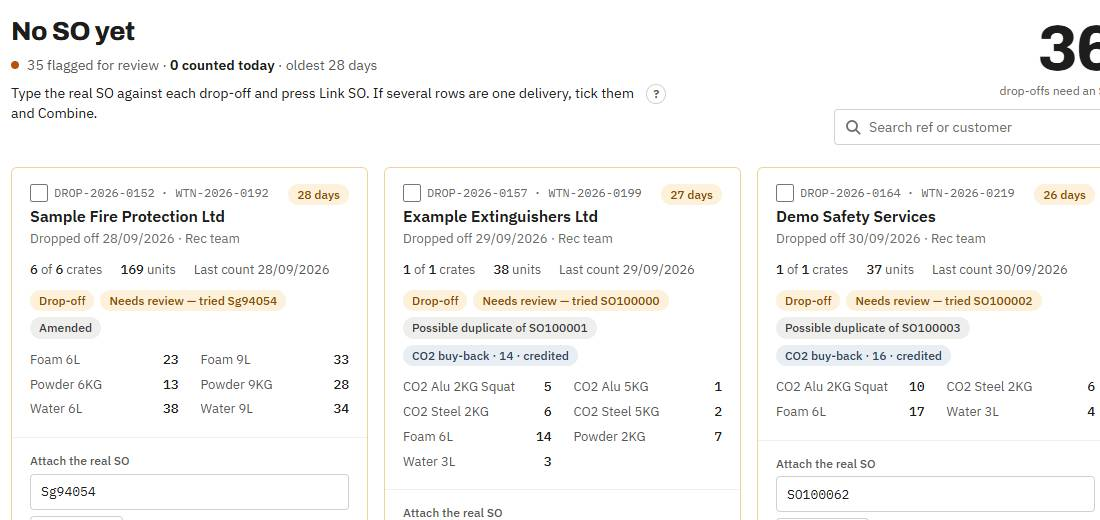
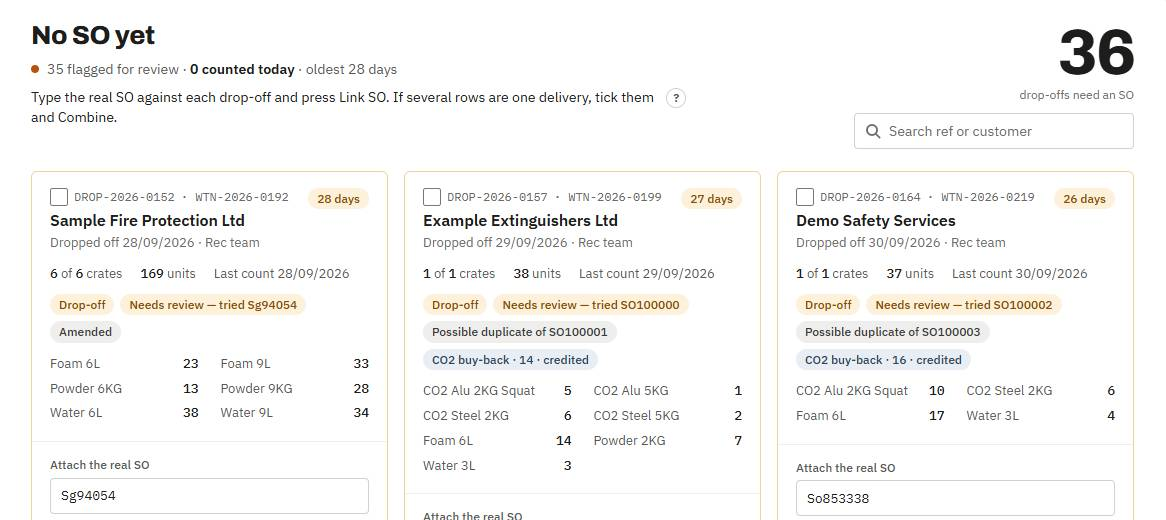
Guide images, mobile table fixes, compact photo links, ignore .taste-skill

diff --git a/public/guide.html b/public/guide.html
@@ -188,7 +188,7 @@ dl.faq dd{margin-top:4px;color:var(--ink)}
 <li><b>WTN sent</b>With the customer, waiting for NetSuite. <i>Moves on when you enter the number and Mark processed.</i></li>
 <li><b>Processed on NetSuite</b>Done. The NetSuite number is on record. <i>End of the line.</i></li>
 </ol>
-<figure><img src="guide/g-stages.jpg" width="1100" height="520" alt="The dashboard sidebar listing the five stages with their counts, beside the Counted stage with its Today line and what to do" loading="lazy"><figcaption>Each stage names what to do and has a small ? that opens its section here.</figcaption></figure>
+<figure><img src="guide/g-stages.jpg" width="1166" height="430" alt="The dashboard sidebar listing the five stages with their counts, beside the Counted stage with its Today line and what to do" loading="lazy"><figcaption>Each stage names what to do and has a small ? that opens its section here.</figcaption></figure>
 
 <h3 id="stage-awaiting">Awaiting count</h3>
 <p>Nothing to do here until the rec team count the crates on the tablet. Close short only when the customer says fewer crates are coming. It issues the WTN for what was actually counted and cannot be undone.</p>
@@ -215,7 +215,7 @@ dl.faq dd{margin-top:4px;color:var(--ink)}
 <li><b>Awaiting count</b><span>A glance. Crates counted today are in the Today line. Close short only when a customer has told you fewer are coming.</span></li>
 <li><b>Month-end, or when a Chubb pack is due</b><span>Process the monthly account (section 5), then Reports for the counted vs billed check.</span></li>
 </ul>
-<figure><img src="guide/g-routine.jpg" width="700" height="520" alt="The sidebar with its counts and an amber flag on Monthly accounts" loading="lazy"><figcaption>Counts show what is waiting. The amber flag on Monthly accounts means visits need confirming.</figcaption></figure>
+<figure style="max-width:260px"><img src="guide/g-routine.jpg" width="250" height="430" alt="The sidebar with its counts and an amber flag on Monthly accounts" loading="lazy"><figcaption>Counts show what is waiting. The amber flag on Monthly accounts means visits need confirming.</figcaption></figure>
 </section>
 
 <section id="tablet">
@@ -230,7 +230,7 @@ dl.faq dd{margin-top:4px;color:var(--ink)}
 <h3>Picking CNI0222 from the list rather than typing it</h3>
 <p>On a drop-off, start typing <code>CNI0222</code> or <b>Chubb</b>. A list of monthly accounts appears under the box. <b>Tap the account in the list.</b> A name picked from the list is trusted, so the visit joins the Chubb roll-up with no further work.</p>
 <div class="note">If the name is typed and not picked, even when it is exactly right, the visit still reaches the dashboard, but Rec Admin has to Confirm it by hand. Picking from the list saves that step.</div>
-<figure class="pair"><div><img src="guide/g-tablet-1.jpg" width="390" height="700" alt="The tablet find screen with the Take Photo button and the drop-off button" loading="lazy"></div><div><img src="guide/g-tablet-2.jpg" width="390" height="700" alt="The drop-off form with Chubb typed and the account offered in a list" loading="lazy"></div><figcaption>Left: photo first. Right: type Chubb, then tap the account in the list.</figcaption></figure>
+<figure class="pair"><div><img src="guide/g-tablet-1.jpg" width="390" height="980" alt="The tablet find screen with the Take Photo button and the drop-off button" loading="lazy"></div><div><img src="guide/g-tablet-2.jpg" width="390" height="980" alt="The drop-off form with Chubb typed and the account offered in a list" loading="lazy"></div><figcaption>Left: photo first. Right: type Chubb, then tap the account in the list.</figcaption></figure>
 <h3>Drop-off or SO?</h3>
 <ul>
 <li><b>SO:</b> NetSuite raised the order and the paperwork has its number. Type the number. The order is already on the dashboard under Awaiting count.</li>
@@ -249,7 +249,7 @@ dl.faq dd{margin-top:4px;color:var(--ink)}
 <li>Press <span class="btnlike dark">Link SO</span> (or Enter). The order leaves this stage.</li>
 </ol>
 <p>If NetSuite already created an empty order with that SO, the two are merged and the counts are kept. If you attach the wrong SO, press <b>Wrong SO? Undo</b> on the card and it goes back to its DROP number with its counts intact.</p>
-<figure><img src="guide/g-noso.jpg" width="1100" height="520" alt="Two No SO yet cards, each with a field for the real SO and a Link SO button" loading="lazy"><figcaption>Sample names. Type the SO in the card, then Link SO.</figcaption></figure>
+<figure><img src="guide/g-noso.jpg" width="1166" height="520" alt="Two No SO yet cards, each with a field for the real SO and a Link SO button" loading="lazy"><figcaption>Sample names. Type the SO in the card, then Link SO.</figcaption></figure>
 <h3>Combine drop-offs</h3>
 <p>The rec team can raise one drop-off per crate, so one delivery shows up as several rows. Tick the rows, then press <span class="btnlike dark">Combine into one</span>. The row that already has a real SO is kept, otherwise the oldest. Counts are re-sequenced, any WTNs already issued are recorded on the result, and <b>it cannot be undone</b>.</p>
 <p>On <b>Awaiting count</b>, open drop-offs for the same customer also offer <b>Merge N drop-offs into one</b>.</p>
@@ -260,7 +260,7 @@ dl.faq dd{margin-top:4px;color:var(--ink)}
 <section id="monthly">
 <h2><span class="n">5</span>Monthly accounts</h2>
 <p class="lede">Chubb Fire and Security Ltd (CNI0222) is billed by the crate each month. Every open Chubb order sits on one card instead of making its own. Work down the four steps in the strip at the top of the card.</p>
-<figure><img src="guide/g-monthly.jpg" width="1100" height="560" alt="The Chubb monthly card with four steps: Needs confirm, Confirm by name, Remove empty drop-off, Process" loading="lazy"><figcaption>The four steps, in the order to do them.</figcaption></figure>
+<figure><img src="guide/g-monthly.jpg" width="1166" height="430" alt="The Chubb monthly card with four steps: Needs confirm, Confirm by name, Remove empty drop-off, Process" loading="lazy"><figcaption>The four steps, in the order to do them.</figcaption></figure>
 <ol>
 <li><b>Needs confirm.</b> A visit typed on the tablet, or matched to Chubb by an alias, waits here. Nothing on it is billed. To check one, press <span class="btnlike amber">Confirm</span> on its row, or <b>Not CNI0222</b> to send it to No SO yet.</li>
 <li><b>Confirm by name.</b> Quicker: press <span class="btnlike amber">Confirm by name…</span>. It lists each typed name with how many visits used it. Tick only the names that are Chubb and press <b>Confirm ticked names</b>.</li>
@@ -289,7 +289,7 @@ dl.faq dd{margin-top:4px;color:var(--ink)}
 <li><b>Processed on NetSuite:</b> each row has its WTN as a PDF link.</li>
 <li><b>Season WTNs</b> (monthly packs) download the same way, from their card or the Monthly accounts page.</li>
 </ul>
-<figure><img src="guide/g-wtn.jpg" width="1100" height="520" alt="WTN sent cards with Download WTN (PDF), Reprint and a NetSuite number field" loading="lazy"><figcaption>Sample names. Download, Reprint and the NetSuite number sit on each card.</figcaption></figure>
+<figure><img src="guide/g-wtn.jpg" width="1166" height="520" alt="WTN sent cards with Download WTN (PDF), Reprint and a NetSuite number field" loading="lazy"><figcaption>Sample names. Download, Reprint and the NetSuite number sit on each card.</figcaption></figure>
 <p>A count that has been amended gets a new WTN from the new counts, and the card shows <b>Amended, resend WTN</b> until you have re-sent it.</p>
 </section>
 
@@ -305,7 +305,7 @@ dl.faq dd{margin-top:4px;color:var(--ink)}
 </ol>
 <p>Then reprint the WTN, re-raise the SO in NetSuite and re-issue the invoice or credit if you ticked those.</p>
 <div class="note">A visit on a monthly roll-up can be amended until it is on a pack. Once a pack has billed it, the change is refused. Ask David.</div>
-<figure><img src="guide/g-amend.jpg" width="1100" height="440" alt="The Amendments page with its order search" loading="lazy"><figcaption>Sample names. Search, open the order, change, give a reason, save.</figcaption></figure>
+<figure><img src="guide/g-amend.jpg" width="1166" height="430" alt="The Amendments page with its order search" loading="lazy"><figcaption>Sample names. Search, open the order, change, give a reason, save.</figcaption></figure>
 </section>
 
 <section id="reports">
@@ -324,7 +324,7 @@ dl.faq dd{margin-top:4px;color:var(--ink)}
 </ol>
 <p>It fills Defra's own template with one row per WTN. Defra's sheet holds 330 rows, so a long range downloads as several files. Dates follow when the waste was received, never when it was billed, so Process never moves a row between quarters.</p>
 <div class="note">If the box lists items "left blank until set up" (such as the receiver's authorisation number), those columns are empty in the file. Ask David to add them.</div>
-<figure><img src="guide/g-reports.jpg" width="1100" height="460" alt="The Defra receipt of waste panel with date pickers, All dates, Download spreadsheet and a summary of what will download" loading="lazy"><figcaption>The right-hand box says what will download before you press it.</figcaption></figure>
+<figure><img src="guide/g-reports.jpg" width="1127" height="353" alt="The Defra receipt of waste panel with date pickers, All dates, Download spreadsheet and a summary of what will download" loading="lazy"><figcaption>The right-hand box says what will download before you press it.</figcaption></figure>
 </section>
 
 <section id="customers">
@@ -338,7 +338,7 @@ dl.faq dd{margin-top:4px;color:var(--ink)}
 </ol>
 <h3>Revert to per order</h3>
 <p>Press <b>Revert to per order</b>, check the dialog, enter your name and the admin key. Open orders go back to their own stages. Packs already sent stay as they are. It is refused in two cases, see the FAQ.</p>
-<figure class="narrow"><img src="guide/g-customers.jpg" width="1100" height="300" alt="The Customers table filtered to Chubb, showing its aliases and Monthly rolling with a Revert to per order button" loading="lazy"><figcaption>Search narrows the list. Chubb is monthly.</figcaption></figure>
+<figure><img src="guide/g-customers.jpg" width="1127" height="178" alt="The Customers table filtered to Chubb, showing its aliases and Monthly rolling with a Revert to per order button" loading="lazy"><figcaption>Search narrows the list. Chubb is monthly.</figcaption></figure>
 <p>If the server has no admin key set, the buttons are replaced by a padlock and the page is read-only. Tell David.</p>
 </section>
 
@@ -350,7 +350,7 @@ dl.faq dd{margin-top:4px;color:var(--ink)}
 <li><b>A button does nothing, or a message says the roll-up changed.</b> Refresh the page (it also updates itself every 30 seconds), then try once more.</li>
 <li><b>An order is in the wrong place.</b> Check its stage rules in section 1. Open <b>Details</b> on the card for its counts and photos.</li>
 </ul>
-<figure class="narrow"><img src="guide/g-problems.jpg" width="500" height="420" alt="The bottom of the sidebar with the Classic view link and the sync status" loading="lazy"><figcaption>Classic view, the count page and the sync status sit at the foot of the sidebar.</figcaption></figure>
+<figure style="max-width:260px"><img src="guide/g-problems.jpg" width="250" height="160" alt="The bottom of the sidebar with the Classic view link and the sync status" loading="lazy"><figcaption>Classic view, the count page and the sync status sit at the foot of the sidebar.</figcaption></figure>
 <div class="contact"><b>Who to contact</b><br>David Sweeney-Owen, Customer Experience Manager. Tell him what you pressed, the SO or DROP number, and what you saw.</div>
 </section>
 

diff --git a/public/dashboard.js b/public/dashboard.js
@@ -323,7 +323,7 @@ function empty(t,s){return `<div class="empty"><b>${t}</b>${s}</div>`;}
 /* ============ cards ============ */
 function photoLinks(o,compact){
   const ids=[...new Set([o.photoId,...(o.counts||[]).map(c=>c.photoId)].filter(Boolean))];
-  return ids.map((id,i)=>`<a class="${compact?'lbtn':'btn quiet sm'}" href="/api/photo/${encodeURIComponent(id)}" target="_blank">View photo${ids.length>1?' '+(i+1):''}</a>`).join('');
+  return ids.map((id,i)=>`<a class="lbtn" href="/api/photo/${encodeURIComponent(id)}" target="_blank">View photo${ids.length>1?' '+(i+1):''}</a>`).join('');
 }
 function tagsFor(o,stage){
   const t=[];
@@ -377,8 +377,8 @@ const VIEWS={
     const sibs=openDropSiblings(o),pct=o.crates?Math.round(o.counted/o.crates*100):0;
     const merge=(sibs.length>1&&sibs[0].id===o.id)?`<button class="btn quiet sm" onclick="mergeDrops(${o.id})">Merge ${sibs.length} drop-offs into one</button>`:'';
     const tg=tagsFor(o,'awaiting');
-    return `<tr><td data-label="Order"><span class="mono">${esc(o.so)}</span>${tg?`<div class="tagrow">${tg}</div>`:''}</td>
-      <td data-label="Customer"><b style="font-weight:600">${esc(o.cust)}</b><span class="sub2">${o.dropOff?'Dropped off':'Created'} ${esc(ukDate(o.date))}${o.by?' · '+esc(o.by):''}</span></td>
+    return `<tr><td data-label="Order"><div><span class="mono">${esc(o.so)}</span>${tg?`<div class="tagrow">${tg}</div>`:''}</div></td>
+      <td data-label="Customer"><div><b style="font-weight:600">${esc(o.cust)}</b><span class="sub2">${o.dropOff?'Dropped off':'Created'} ${esc(ukDate(o.date))}${o.by?' · '+esc(o.by):''}</span></div></td>
       <td data-label="Counted"><div class="pbar s-awaiting"><div class="prog" role="img" aria-label="${pct}% counted"><i style="width:${pct}%"></i></div><span class="mono">${o.counted} of ${o.crates}</span></div></td>
       <td class="num" data-label="Units">${o.totals.length?N(units(o)):'<span style="color:var(--ink-3)">—</span>'}</td>
       <td data-label="Age" style="white-space:nowrap;color:var(--ink-2)">${plural(P.ageDays(o.date),'day')}</td>
@@ -508,7 +508,7 @@ function rollSection(c){
     const th=ph.length?`<a class="thumb" href="/api/photo/${encodeURIComponent(ph[0])}" target="_blank" title="View photo"><img src="/api/photo/${encodeURIComponent(ph[0])}" alt="Photo for ${esc(o.so)}" loading="lazy"></a>`:'<span class="thumb">No photo</span>';
     const kind=P.isPlaceholder(o.so)?'Drop-off':'NetSuite SO',billedC=P.entriesCrates((o.counts||[]).filter(x=>P.entryPack(o,x)));
     const match=pend?`<b>“${esc(o.typedCust||o.cust)}” — matched to ${esc(c.code)}, confirm</b><small>${kind}${o.dropOff?' typed on the tablet':' matched by alias'}</small>`
-      :`<span class="tick">✓</span> ${esc(o.cust)}<small>${kind} · ${o.custMatch==='picked'?'picked from the list':o.rollConfirmedAt?'confirmed by '+esc(o.rollConfirmedBy||'Rec admin'):'name matches the account'}${billedC?` · ${plural(billedC,'crate')} already billed`:''}</small>`;
+      :`<span class="tick"></span> ${esc(o.cust)}<small>${kind} · ${o.custMatch==='picked'?'picked from the list':o.rollConfirmedAt?'confirmed by '+esc(o.rollConfirmedBy||'Rec admin'):'name matches the account'}${billedC?` · ${plural(billedC,'crate')} already billed`:''}</small>`;
     const soNote=P.isPlaceholder(o.so)?'':`<span class="soNote">Has NetSuite SO ${esc(o.so)} — close it in NetSuite when the pack is invoiced</span>`;
     const photos=ph.map((id,i)=>`<a class="lbtn" href="/api/photo/${encodeURIComponent(id)}" target="_blank">Photo${ph.length>1?' '+(i+1):''}</a>`).join(' ');
     const act=pend?`<button class="btn amber sm" onclick="rollConfirm(${o.id},true)">Confirm</button><button class="lbtn" onclick="rollConfirm(${o.id},false)">Not ${esc(c.code)}</button>`
@@ -933,7 +933,7 @@ function renderReports(){
     ['Billed',tBilled],['Not yet billed',totalUnits-tBilled],
     ['Collections',sos.size],['Customers',new Set(rows.map(r=>r.cust)).size],
     ['CO2 buy-back units',co2],['Drop-offs',drops.size]
-  ].map(([l,n])=>`<div class="kpi"><div class="num">${n}</div><div class="lbl">${l}</div></div>`).join('');
+  ].map(([l,n])=>`<div class="kpi"><div class="num">${typeof n==='number'?N(n):n}</div><div class="lbl">${l}</div></div>`).join('');
   const byCust=groupSum(rows,'cust'),byProd=groupSum(rows,'product'),byType=groupSum(rows,'type');
   const trend=trendBuckets(rows);
   LAST={rows,byCust,byProd,byType,trend,f};

diff --git a/public/dashboard.html b/public/dashboard.html
@@ -163,7 +163,9 @@ td .sub2{display:block;font-size:12px;color:var(--ink-3);margin-top:2px}
 td .tagrow{display:flex;gap:6px;flex-wrap:wrap;margin-top:4px}
 .rowact{display:flex;gap:4px 10px;align-items:center;justify-content:flex-end;flex-wrap:wrap}
 .pbar{display:flex;align-items:center;gap:10px;min-width:150px}
-.pbar .prog{flex:1;margin:0;min-width:60px}
+.pbar .prog{flex:0 1 90px;margin:0;min-width:48px}
+.pbar .mono{font-size:13px;white-space:nowrap;color:var(--ink-2)}
+td:nth-child(2) b{overflow-wrap:anywhere}
 .sec-title{font-size:13px;font-weight:600;color:var(--ink-2);margin:28px 0 12px}
 
 /* monthly roll-up */
@@ -200,6 +202,7 @@ td .tagrow{display:flex;gap:6px;flex-wrap:wrap;margin-top:4px}
 .thumb img{width:100%;height:100%;object-fit:cover;display:block}
 .match small{display:block;color:var(--ink-3);font-size:12px}
 .match .tick{color:var(--positive);font-weight:600}
+.match .tick::before{content:"\2713"}
 .soNote{display:inline-block;margin-top:4px;font-size:12px;font-weight:600;color:var(--amber);background:var(--amber-soft);padding:2px 6px;border-radius:4px}
 .vact{display:flex;gap:4px 10px;flex-wrap:wrap;align-items:center}
 .roll-cols{display:grid;grid-template-columns:1fr 1fr;gap:32px;padding:22px 24px}
@@ -318,7 +321,7 @@ table.rep th.n{font-family:var(--sans)}
 [hidden]{display:none!important}
 
 @media(max-width:1280px){.steps{grid-template-columns:repeat(2,minmax(0,1fr))}.steps li:nth-child(3){border-left:none}.steps li:nth-child(n+3){border-top:1px solid var(--line)}}
-@media(max-width:1100px){.shell{grid-template-columns:220px minmax(0,1fr)}.main{padding:24px 24px 64px}.detail-grid{grid-template-columns:1fr}.defra-grid{grid-template-columns:1fr}}
+@media(max-width:1100px){.shell{grid-template-columns:236px minmax(0,1fr)}.main{padding:24px 24px 64px}.detail-grid{grid-template-columns:1fr}.defra-grid{grid-template-columns:1fr}}
 @media(max-width:900px){
   body{background:var(--surface)}
   .shell{grid-template-columns:minmax(0,1fr);align-content:start}
@@ -337,7 +340,7 @@ table.rep th.n{font-family:var(--sans)}
   .grid{grid-template-columns:minmax(0,1fr)}
   .btn{white-space:normal;text-align:center}
   .steps{grid-template-columns:minmax(0,1fr)}.steps li{border-left:none;border-top:1px solid var(--line)}.steps li:first-child{border-top:none}
-  .stat.big1 .v{font-size:48px}.stats{gap:22px}
+  .stat.big1 .v{font-size:48px}.stats{display:grid;grid-template-columns:repeat(3,minmax(0,1fr));gap:18px 22px;width:100%}.stat.big1{grid-column:1/-1}
   .view-head h1{font-size:23px}
   .search{width:100%}
   .roll-head{padding:18px 16px 14px}.visits{padding:0 16px}.alert{margin:0 16px 14px}.roll-cols{grid-template-columns:1fr;padding:16px}.roll-foot{padding:14px 16px}
@@ -354,6 +357,7 @@ table.rep th.n{font-family:var(--sans)}
   .stack td{display:flex;justify-content:space-between;gap:12px;padding:3px 0;border:none;text-align:right}
   .stack td::before{content:attr(data-label);color:var(--ink-3);font-size:12px;text-align:left;flex:none}
   .stack td:empty{display:none}
+  .stack td>div{text-align:right}.stack td .tagrow{justify-content:flex-end}
   .pbar{min-width:0;flex:1}
 }
 @media(prefers-reduced-motion:reduce){*{animation:none!important;transition:none!important}}
